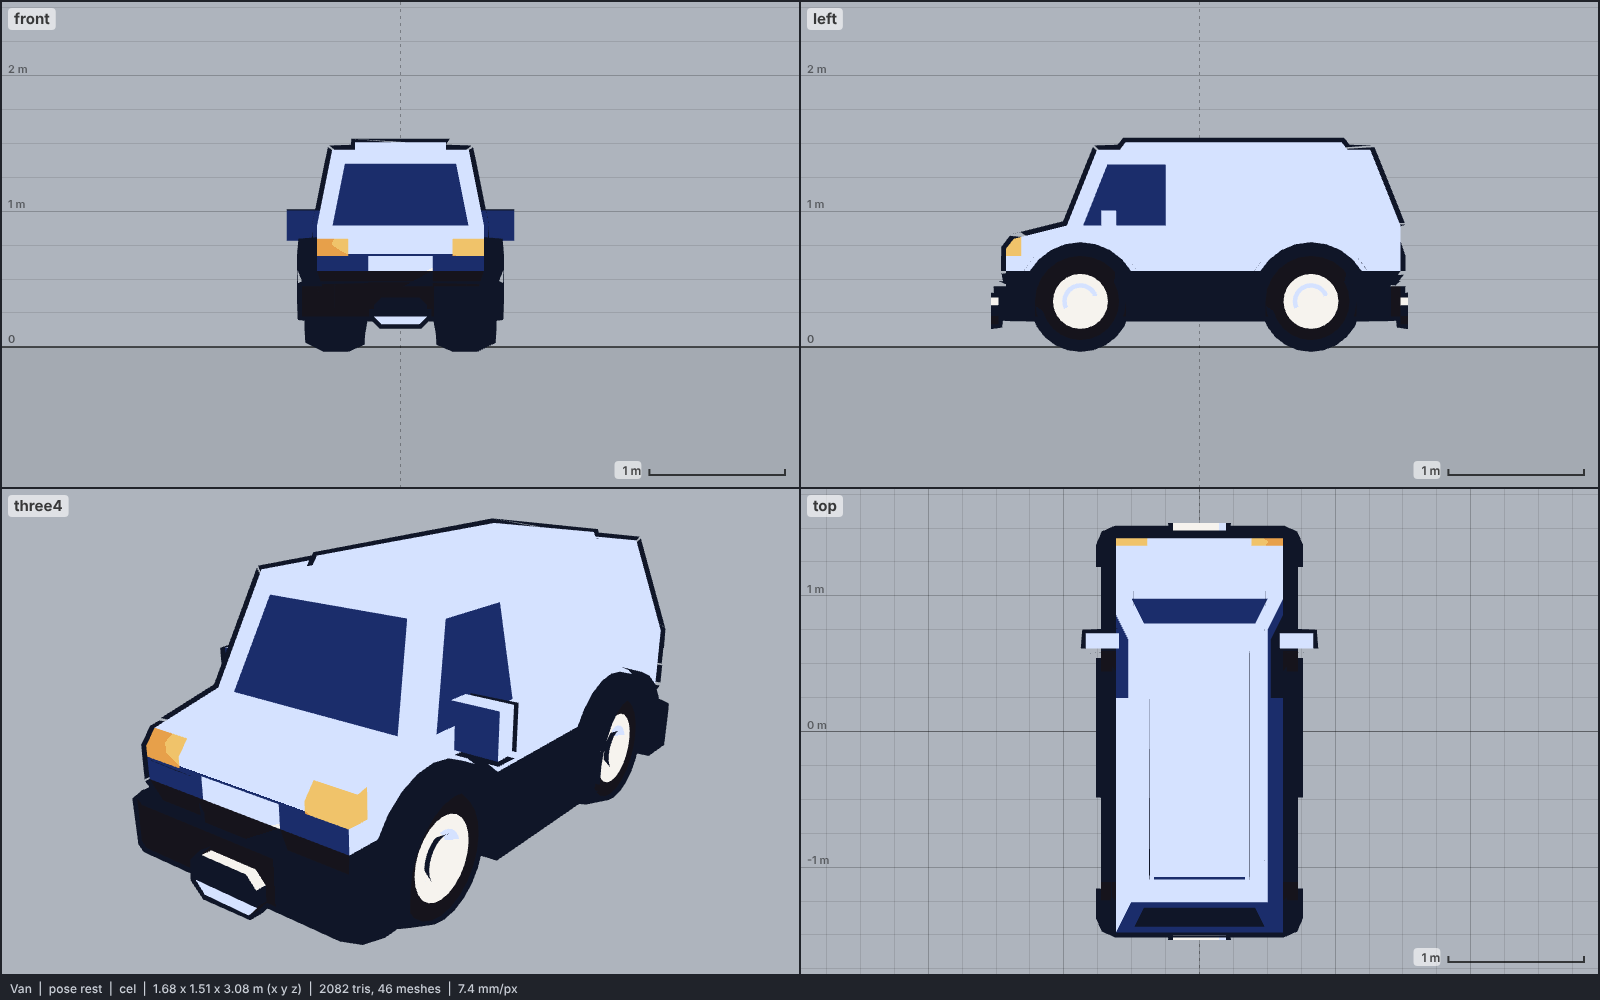
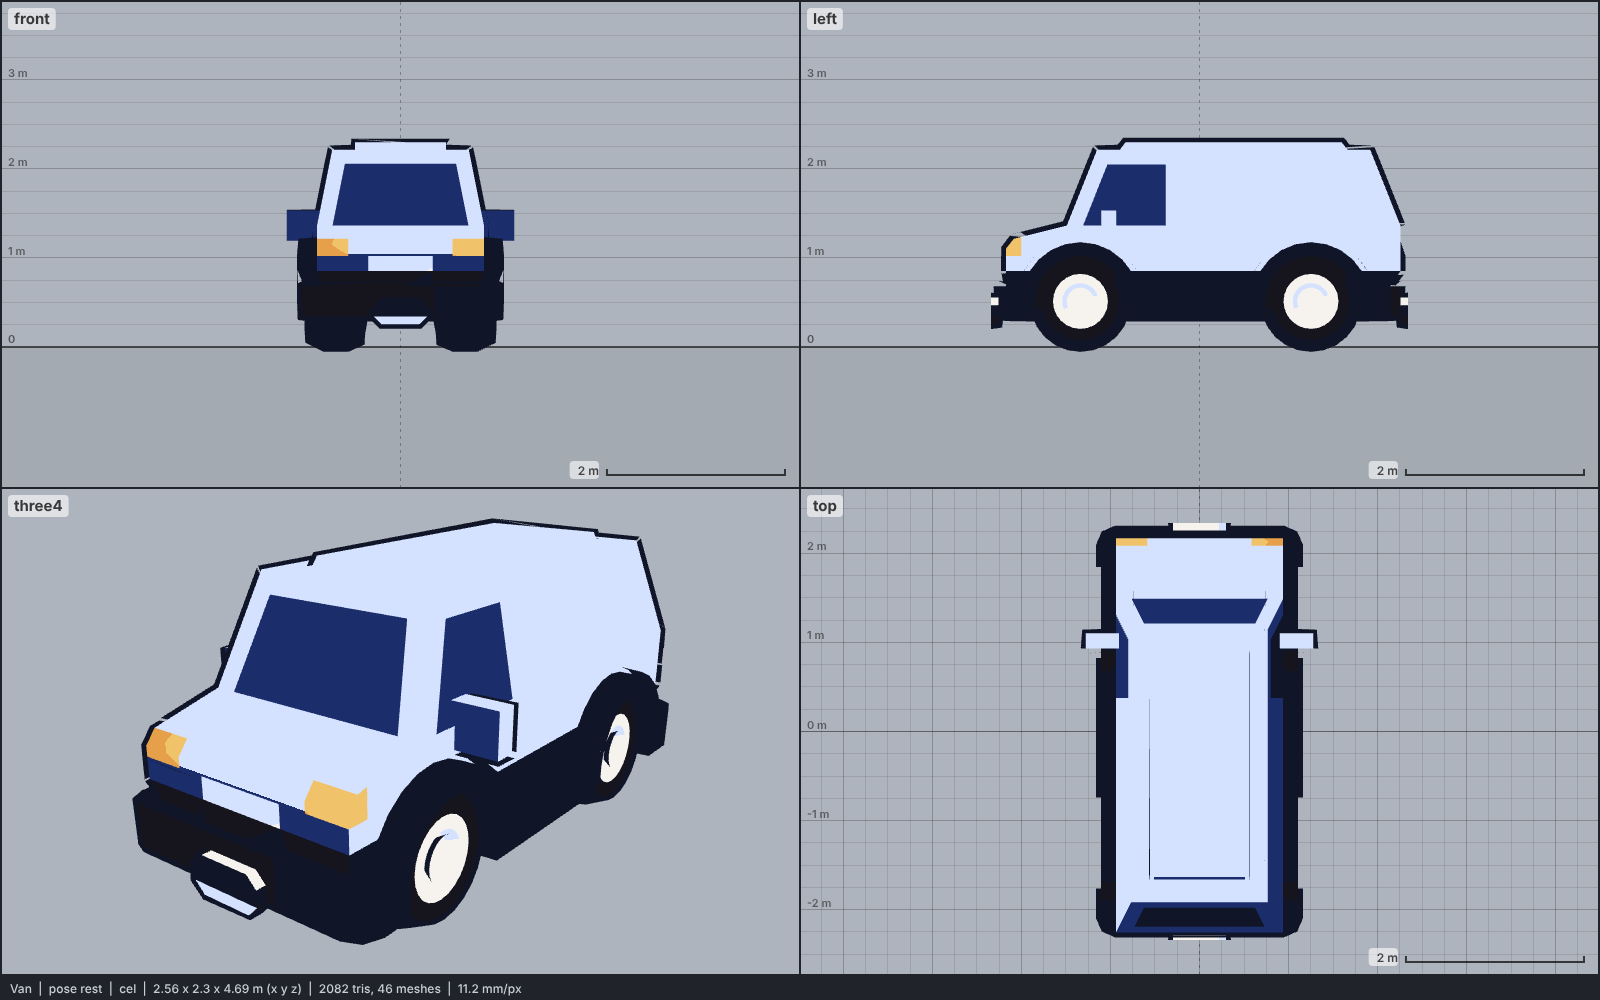
car-van: real size, 2.3 m tall panel van (4.69 m long)
The Kenney van is a short-nose panel van; at 2.3 m tall its length is 4.69 m, matching a standard-body high-roof Toyota HiAce. Merges the latest pipeline.

Claude-Session: https://claude.ai/code/session_01RarBCdt4E1fNHHaUKaW5GL

diff --git a/models/CATALOG.md b/models/CATALOG.md
@@ -9,4 +9,4 @@
 
 | preview | id | model | height | tris | clips | licence | source |
 | --- | --- | --- | --- | --- | --- | --- | --- |
-| <img src="library/car-van/preview.png" width="240"> | `car-van` | Van<br>*low-poly, flat colours (Kenney Car Kit)* | 1.51 m | 2082 | - | CC0 1.0 | [Kenney · Car Kit](https://kenney.nl/assets/car-kit) |
+| <img src="library/car-van/preview.png" width="240"> | `car-van` | Van<br>*low-poly, flat colours (Kenney Car Kit)* | 2.3 m | 2082 | - | CC0 1.0 | [Kenney · Car Kit](https://kenney.nl/assets/car-kit) |
